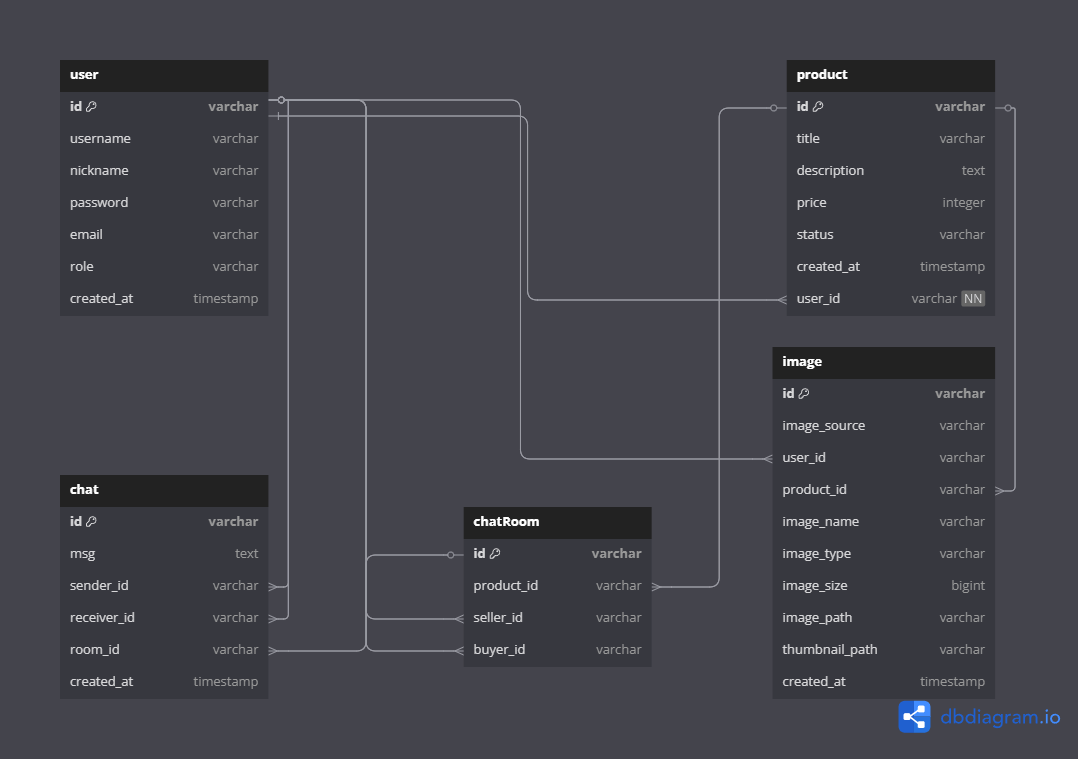
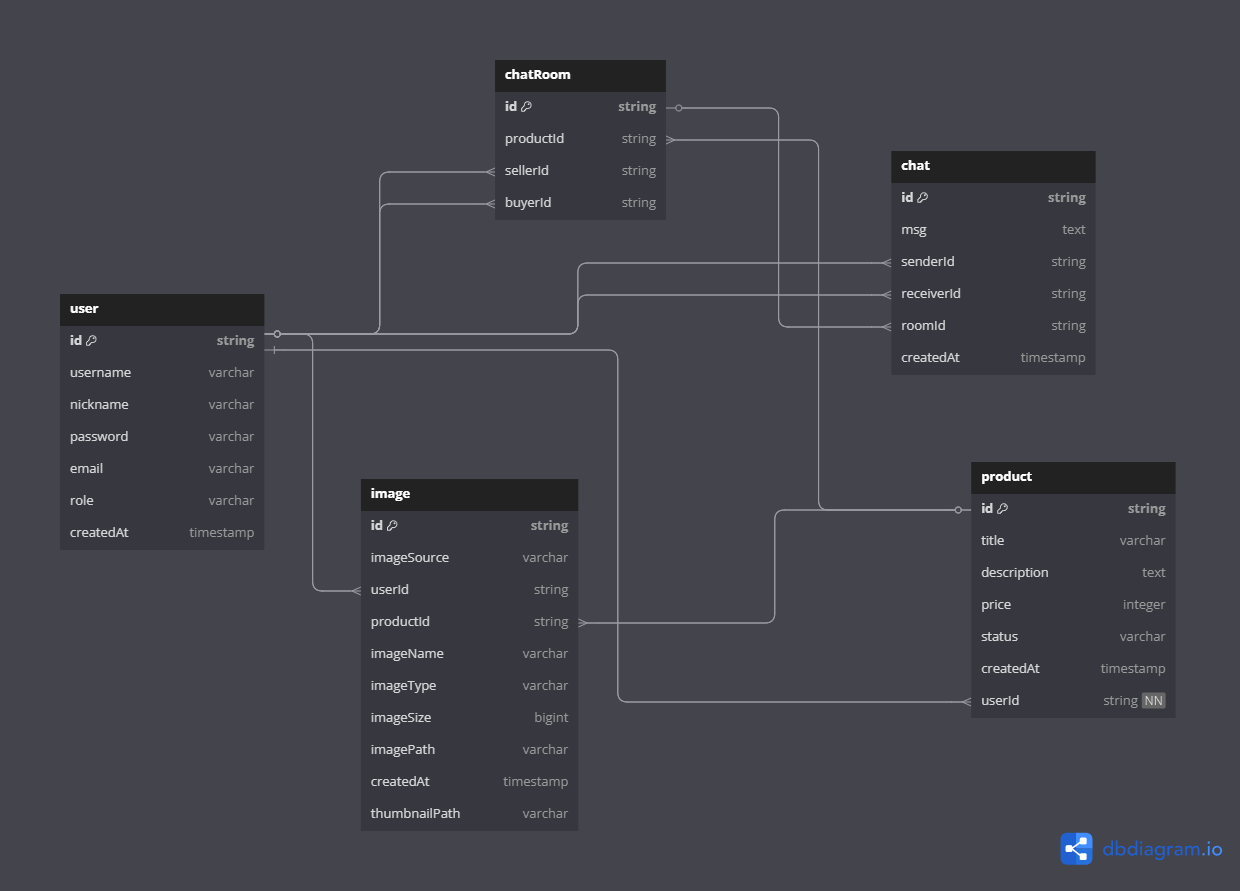
판매 완료 상품은 메인 조회 리스트 제외로 로직 수정 + erd 연관관계 구분 명확하게 수정

diff --git a/src/main/resources/static/js/chat.js b/src/main/resources/static/js/chat.js
@@ -3,6 +3,7 @@ document.addEventListener("DOMContentLoaded", function() {
     const senderId = document.getElementById("senderId").value;
 
     const eventSource = new EventSource(`http://hansung1908.site:8081/chat/${roomId}`);
+//    const eventSource = new EventSource(`http://localhost:8081/chat/${roomId}`);
 
     eventSource.onmessage = (event) => {
 

diff --git a/src/main/java/com/hansung/reactive_marketplace/repository/ProductRepository.java b/src/main/java/com/hansung/reactive_marketplace/repository/ProductRepository.java
@@ -11,7 +11,7 @@ import reactor.core.publisher.Mono;
 
 public interface ProductRepository extends ReactiveMongoRepository<Product, String> {
 
-    @Query(value = "{}", fields = "{ '_id' : 1, 'title' : 1, 'price' : 1 }")
+    @Query(value = "{ 'status' : 'ON_SALE' }", fields = "{ '_id' : 1, 'title' : 1, 'price' : 1 }")
     Flux<Product> findProductList(Sort sort);
 
     @Query(value = "{ 'userId' : ?0 }")
